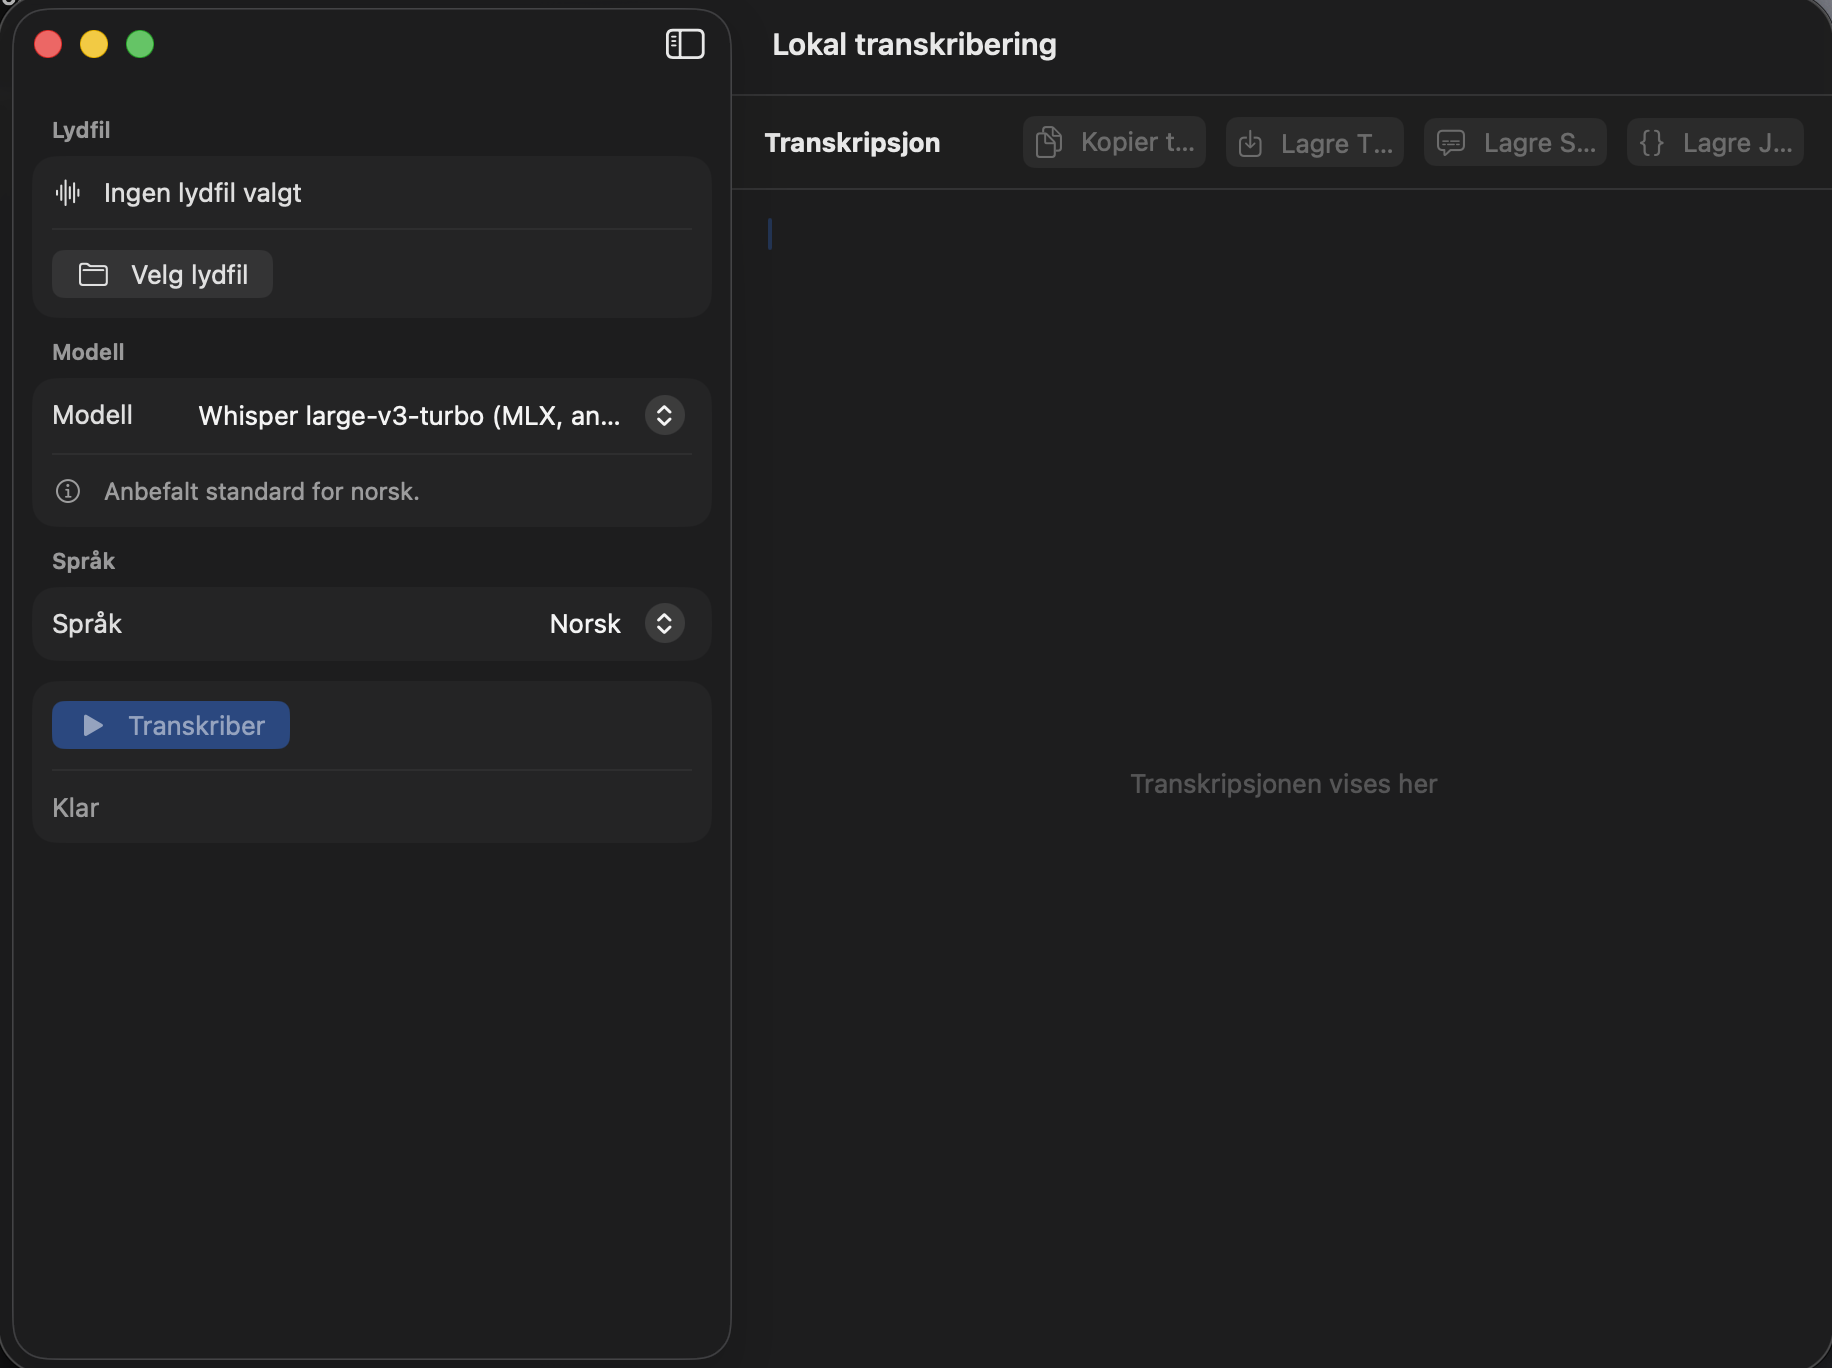
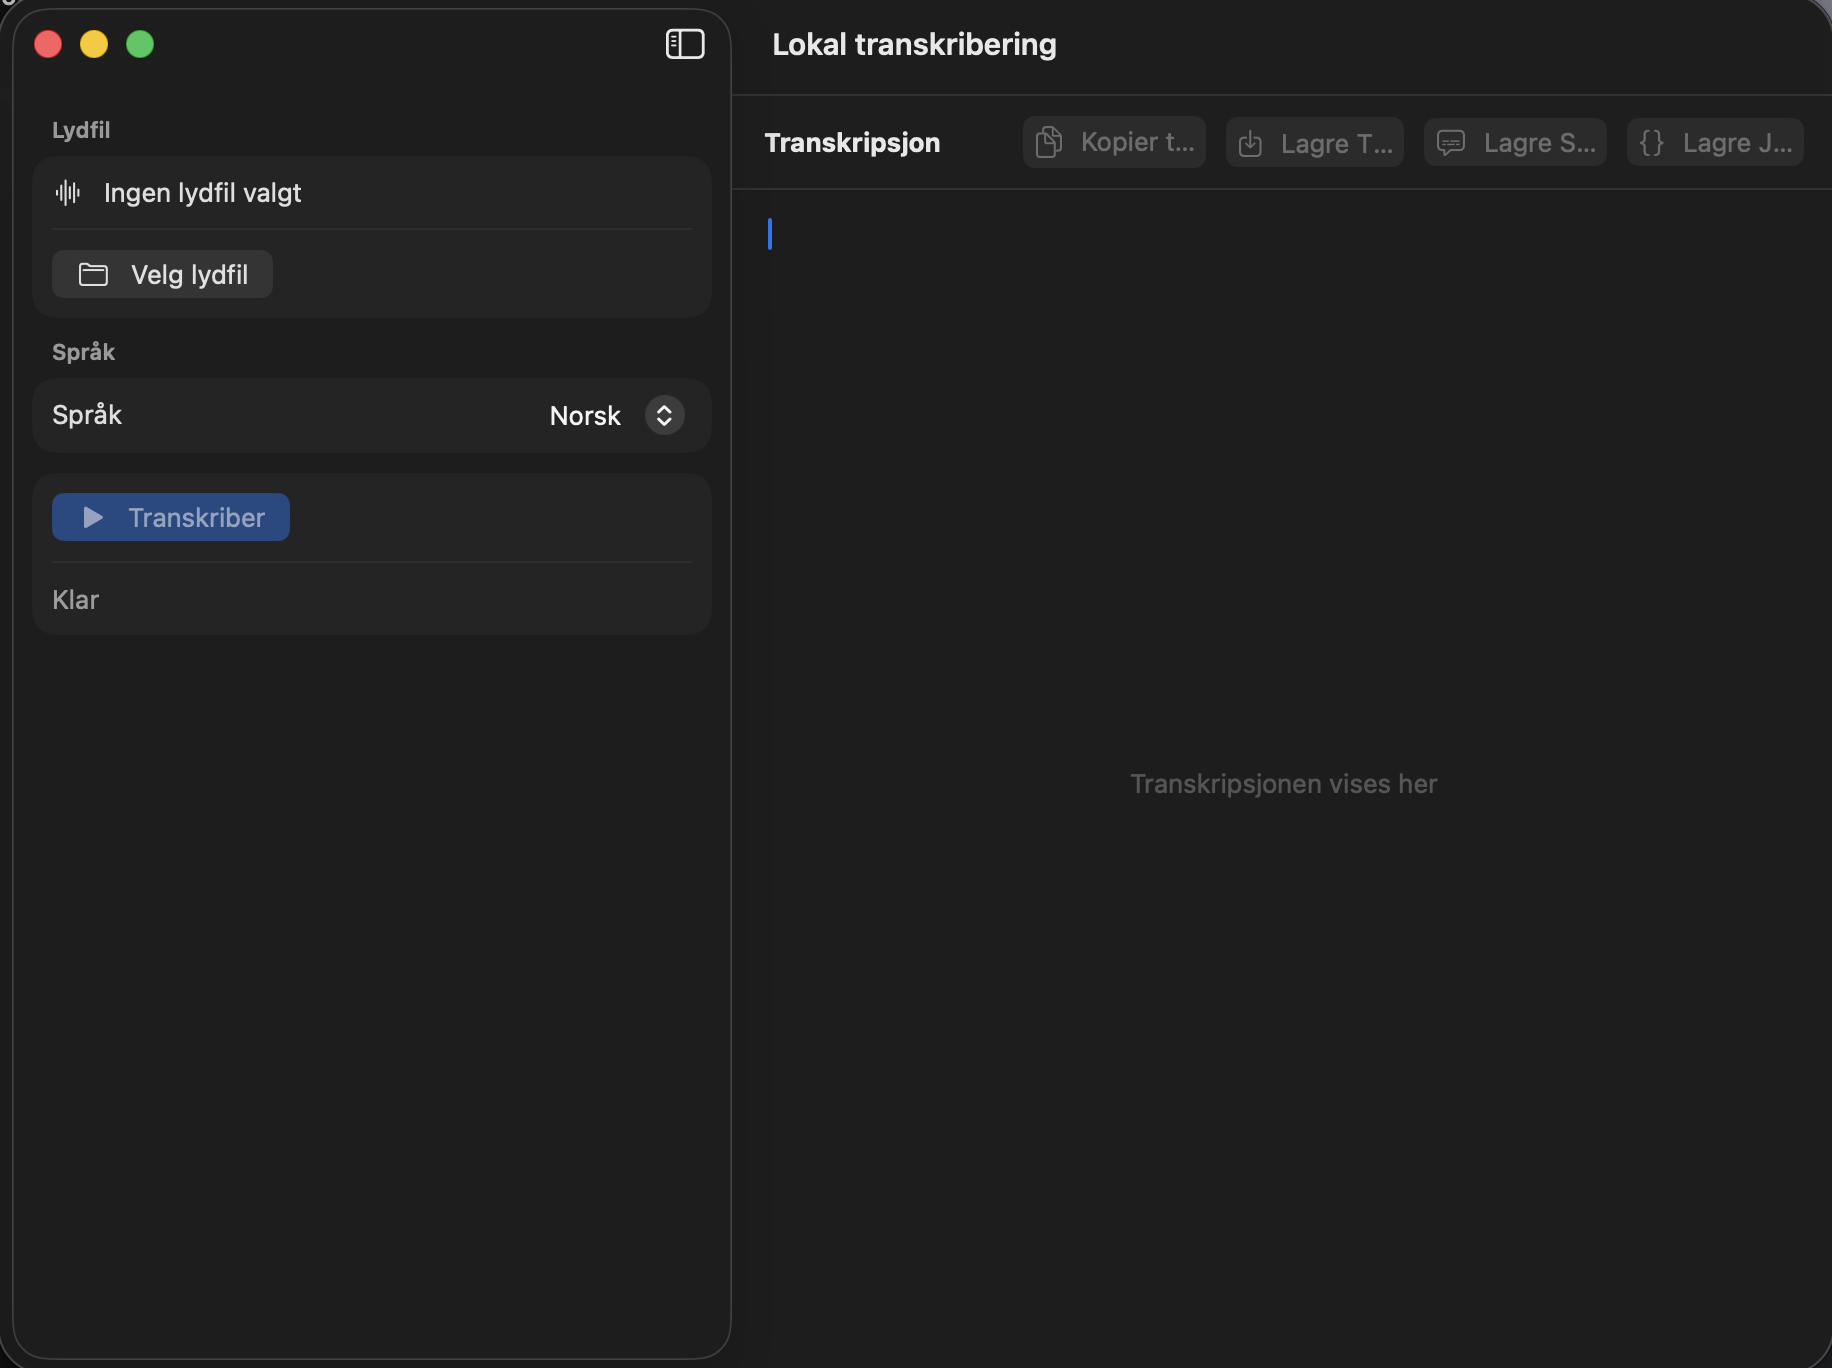
chore: simplify to mlx whisper backend

diff --git a/Sources/LocalTranscriber/Services/TranscriptionRunner.swift b/Sources/LocalTranscriber/Services/TranscriptionRunner.swift
@@ -3,14 +3,12 @@ import Foundation
 struct TranscriptionRunner: Sendable {
     func transcribe(
         audioFile: URL,
-        model: TranscriptionModel,
         language: TranscriptionLanguage,
         status: @escaping @Sendable (String) -> Void
     ) async throws -> TranscriptionResult {
         try await Task.detached(priority: .userInitiated) {
             try self.transcribeSynchronously(
                 audioFile: audioFile,
-                model: model,
                 language: language,
                 status: status
             )
@@ -37,31 +35,13 @@ struct TranscriptionRunner: Sendable {
         return arguments
     }
 
-    static func canaryArguments(audioFile: URL, language: TranscriptionLanguage) -> [String] {
-        var arguments: [String] = []
-
-        if let sourceLanguage = language.cliCode {
-            arguments.append(contentsOf: ["--source-lang", sourceLanguage])
-        }
-
-        arguments.append(audioFile.path)
-        return arguments
-    }
-
     private func transcribeSynchronously(
         audioFile: URL,
-        model: TranscriptionModel,
         language: TranscriptionLanguage,
         status: @escaping @Sendable (String) -> Void
     ) throws -> TranscriptionResult {
         try ensureAudioFileExists(audioFile)
-
-        switch model {
-        case .mlxWhisperLargeV3Turbo:
-            return try runMLXWhisper(audioFile: audioFile, language: language, status: status)
-        case .canary1BV2:
-            return try runCanary(audioFile: audioFile, language: language, status: status)
-        }
+        return try runMLXWhisper(audioFile: audioFile, language: language, status: status)
     }
 
     private func runMLXWhisper(
@@ -69,7 +49,9 @@ struct TranscriptionRunner: Sendable {
         language: TranscriptionLanguage,
         status: @escaping @Sendable (String) -> Void
     ) throws -> TranscriptionResult {
-        let outputDirectory = try createTemporaryDirectory(named: "mlx-output")
+        let outputDirectory = FileManager.default.temporaryDirectory
+            .appendingPathComponent("LocalTranscriber-mlx-output-\(UUID().uuidString)", isDirectory: true)
+        try FileManager.default.createDirectory(at: outputDirectory, withIntermediateDirectories: true)
         defer { try? FileManager.default.removeItem(at: outputDirectory) }
 
         status("Kjører MLX Whisper lokalt")
@@ -108,31 +90,6 @@ struct TranscriptionRunner: Sendable {
         return TranscriptionResult(text: text.trimmingCharacters(in: .whitespacesAndNewlines), srt: srt, json: json)
     }
 
-    private func runCanary(
-        audioFile: URL,
-        language: TranscriptionLanguage,
-        status: @escaping @Sendable (String) -> Void
-    ) throws -> TranscriptionResult {
-        status("Kjører NVIDIA Canary lokalt")
-        let arguments = Self.canaryArguments(audioFile: audioFile, language: language)
-        let execution = try runProcess(tool: "canary-transcribe", arguments: arguments)
-
-        guard execution.terminationStatus == 0 else {
-            throw TranscriptionError.processFailed(
-                tool: "canary-transcribe",
-                code: execution.terminationStatus,
-                output: displayTail(execution.combinedOutput)
-            )
-        }
-
-        let text = execution.standardOutput.trimmingCharacters(in: .whitespacesAndNewlines)
-        guard !text.isEmpty else {
-            throw TranscriptionError.missingOutput("Canary fullførte, men ga ingen transkripsjon på stdout.")
-        }
-
-        return TranscriptionResult(text: text, srt: nil, json: nil)
-    }
-
     private func ensureAudioFileExists(_ audioFile: URL) throws {
         var isDirectory: ObjCBool = false
         let exists = FileManager.default.fileExists(atPath: audioFile.path, isDirectory: &isDirectory)
@@ -151,7 +108,11 @@ struct TranscriptionRunner: Sendable {
         let process = Process()
         process.executableURL = URL(fileURLWithPath: "/usr/bin/env")
         process.arguments = [tool] + arguments
-        process.environment = processEnvironment()
+        var environment = ProcessInfo.processInfo.environment
+        environment["HF_HUB_OFFLINE"] = "1"
+        environment["TRANSFORMERS_OFFLINE"] = "1"
+        environment["HF_HUB_DISABLE_TELEMETRY"] = "1"
+        process.environment = environment
         process.standardOutput = stdout.pipe
         process.standardError = stderr.pipe
 
@@ -164,21 +125,6 @@ struct TranscriptionRunner: Sendable {
             standardOutput: stdout.string,
             standardError: stderr.string
         )
-    }
-
-    private func processEnvironment() -> [String: String] {
-        var environment = ProcessInfo.processInfo.environment
-        environment["HF_HUB_OFFLINE"] = "1"
-        environment["TRANSFORMERS_OFFLINE"] = "1"
-        environment["HF_HUB_DISABLE_TELEMETRY"] = "1"
-        return environment
-    }
-
-    private func createTemporaryDirectory(named prefix: String) throws -> URL {
-        let directory = FileManager.default.temporaryDirectory
-            .appendingPathComponent("LocalTranscriber-\(prefix)-\(UUID().uuidString)", isDirectory: true)
-        try FileManager.default.createDirectory(at: directory, withIntermediateDirectories: true)
-        return directory
     }
 
     private func displayTail(_ text: String, maxCharacters: Int = 1_200) -> String {

diff --git a/Sources/LocalTranscriber/ViewModels/TranscriptionViewModel.swift b/Sources/LocalTranscriber/ViewModels/TranscriptionViewModel.swift
@@ -6,7 +6,6 @@ import UniformTypeIdentifiers
 @MainActor
 final class TranscriptionViewModel: ObservableObject {
     @Published var audioFile: URL?
-    @Published var selectedModel: TranscriptionModel = .mlxWhisperLargeV3Turbo
     @Published var selectedLanguage: TranscriptionLanguage = .norwegian
     @Published var transcript = ""
     @Published var statusText = "Klar"
@@ -32,17 +31,6 @@ final class TranscriptionViewModel: ObservableObject {
         audioFile?.path ?? ""
     }
 
-    var modelNotice: String? {
-        switch selectedModel {
-        case .mlxWhisperLargeV3Turbo:
-            return "Anbefalt standard for norsk."
-        case .canary1BV2:
-            return selectedLanguage == .norwegian
-                ? "Ikke anbefalt for norsk"
-                : "Canary kjører lokalt, men MLX Whisper er anbefalt for norsk."
-        }
-    }
-
     var canSaveText: Bool {
         !transcript.trimmingCharacters(in: .whitespacesAndNewlines).isEmpty
     }
@@ -61,11 +49,6 @@ final class TranscriptionViewModel: ObservableObject {
         }
     }
 
-    func applyModelDefaultLanguage() {
-        selectedLanguage = selectedModel.defaultLanguage
-        errorMessage = nil
-    }
-
     func transcribe() async {
         guard let audioFile else {
             errorMessage = "Velg en lydfil først."
@@ -80,7 +63,6 @@ final class TranscriptionViewModel: ObservableObject {
         do {
             let result = try await runner.transcribe(
                 audioFile: audioFile,
-                model: selectedModel,
                 language: selectedLanguage
             ) { [weak self] message in
                 Task { @MainActor in

diff --git a/Sources/LocalTranscriber/Views/ContentView.swift b/Sources/LocalTranscriber/Views/ContentView.swift
@@ -10,9 +10,6 @@ struct ContentView: View {
         } detail: {
             transcriptPane
         }
-        .onChange(of: viewModel.selectedModel) {
-            viewModel.applyModelDefaultLanguage()
-        }
     }
 
     private var sidebar: some View {
@@ -35,20 +32,6 @@ struct ContentView: View {
                     viewModel.chooseAudioFile()
                 } label: {
                     Label("Velg lydfil", systemImage: "folder")
-                }
-            }
-
-            Section("Modell") {
-                Picker("Modell", selection: $viewModel.selectedModel) {
-                    ForEach(TranscriptionModel.allCases) { model in
-                        Text(model.displayName).tag(model)
-                    }
-                }
-
-                if let notice = viewModel.modelNotice {
-                    Label(notice, systemImage: "info.circle")
-                        .font(.callout)
-                        .foregroundStyle(Color.secondary)
                 }
             }
 

diff --git a/Tests/LocalTranscriberTests/TranscriptionTests.swift b/Tests/LocalTranscriberTests/TranscriptionTests.swift
@@ -28,15 +28,3 @@ import Testing
     #expect(TranscriptionLanguage.danish.cliCode == "da")
     #expect(TranscriptionLanguage.auto.cliCode == nil)
 }
-
-@Test func onlyRunnableModelsAreVisible() {
-    #expect(TranscriptionModel.allCases == [.mlxWhisperLargeV3Turbo, .canary1BV2])
-}
-
-@Test func canaryIsRunnableButWarnedForNorwegianUse() {
-    let arguments = TranscriptionRunner.canaryArguments(
-        audioFile: URL(fileURLWithPath: "/tmp/test.wav"),
-        language: .norwegian
-    )
-    #expect(arguments == ["--source-lang", "no", "/tmp/test.wav"])
-}

diff --git a/README.md b/README.md
@@ -1,8 +1,8 @@
 # Local Transcriber
 
-Local Transcriber is a small native macOS app for offline audio transcription. It runs local command-line transcription tools from a SwiftUI interface and does not send audio or transcript text to external APIs.
+Local Transcriber is a small native macOS app for offline audio transcription with MLX Whisper. It gives you a simple SwiftUI interface for choosing an audio or video file, running local transcription, and saving the generated transcript files.
 
-The app is currently Norwegian-first, with MLX Whisper as the recommended default for Norwegian speech.
+The app does not send audio or transcript text to external APIs. It is currently Norwegian-first and uses `mlx-community/whisper-large-v3-turbo` through `mlx_whisper`.
 
 ![Local Transcriber macOS app](docs/screenshot.png)
 
@@ -10,10 +10,10 @@ The app is currently Norwegian-first, with MLX Whisper as the recommended defaul
 
 - Native SwiftUI macOS app.
 - Pick an audio or video file from Finder.
-- Transcribe locally with `mlx_whisper` or `canary-transcribe`.
-- Save plain text output.
-- Save generated SRT and JSON output when the selected backend produces it.
-- Offline execution environment for Hugging Face tooling:
+- Transcribe locally with `mlx_whisper`.
+- Save TXT output.
+- Save generated SRT and JSON output.
+- Offline Hugging Face execution environment:
   - `HF_HUB_OFFLINE=1`
   - `TRANSFORMERS_OFFLINE=1`
   - `HF_HUB_DISABLE_TELEMETRY=1`
@@ -22,34 +22,24 @@ The app is currently Norwegian-first, with MLX Whisper as the recommended defaul
 
 - macOS 14 or newer.
 - Swift toolchain compatible with SwiftPM `swift-tools-version: 6.3`.
-- Local transcription tools available in `PATH`:
-  - `mlx_whisper`
-  - `canary-transcribe`
-- The model files needed by those tools must already be downloaded locally.
+- `mlx_whisper` available in `PATH`.
+- `mlx-community/whisper-large-v3-turbo` downloaded locally.
 
-The app intentionally does not download models at runtime. If a required local model is missing, the underlying tool will fail instead of silently using the network.
+The app intentionally does not download models at runtime. If the model is missing, `mlx_whisper` fails instead of the app silently using the network.
 
 ## Recommended Local Setup
 
-Install or verify MLX Whisper:
+Verify MLX Whisper:
 
 ```bash
 uvx --python 3.12 --from mlx-whisper mlx_whisper --help
 ```
 
-Download the recommended MLX Whisper model with your preferred Hugging Face tooling:
+Download the recommended model with your preferred Hugging Face tooling:
 
 ```bash
 uvx --from huggingface_hub hf download mlx-community/whisper-large-v3-turbo
 ```
-
-Optional Canary backend:
-
-```bash
-canary-transcribe --help
-```
-
-The Canary backend expects the `nvidia/canary-1b-v2` model to be available locally through the tool's own setup.
 
 ## Run
 
@@ -71,24 +61,15 @@ Run tests:
 swift test
 ```
 
-## Supported Models
+## Model
 
-### Whisper large-v3-turbo via MLX
+Local Transcriber currently runs one local model:
 
 - Model: `mlx-community/whisper-large-v3-turbo`
 - Tool: `mlx_whisper`
 - Recommended default for Norwegian.
 - Uses `--language no` when Norwegian is selected.
 - Runs with `--output-format all`, allowing the app to save TXT, SRT, and JSON output.
-
-### NVIDIA Canary 1B v2
-
-- Model: `nvidia/canary-1b-v2`
-- Tool: `canary-transcribe`
-- Runs locally.
-- Included as an alternative backend.
-- Marked in the app as not recommended for Norwegian.
-- Current app integration saves text from stdout as TXT.
 
 ## Architecture
 
@@ -97,11 +78,11 @@ This is a simple Swift Package Manager macOS app:
 - `Sources/LocalTranscriber/App` contains the app entry point.
 - `Sources/LocalTranscriber/Views` contains the SwiftUI UI.
 - `Sources/LocalTranscriber/ViewModels` coordinates UI state and save/copy actions.
-- `Sources/LocalTranscriber/Services` runs local transcription processes.
-- `Sources/LocalTranscriber/TranscriptionTypes.swift` defines models, languages, and result types.
-- `Tests/LocalTranscriberTests` covers argument construction and model/language behavior.
+- `Sources/LocalTranscriber/Services` runs the local transcription process.
+- `Sources/LocalTranscriber/TranscriptionTypes.swift` defines languages and result types.
+- `Tests/LocalTranscriberTests` covers argument construction and language behavior.
 
-The app uses `Process` to launch local command-line tools. Each MLX Whisper run writes into a temporary output directory; the app reads the generated files back into memory and removes the temporary directory afterward.
+The app uses `Process` to launch `mlx_whisper`. Each transcription run writes into a temporary output directory; the app reads the generated files back into memory and removes the temporary directory afterward.
 
 ## Privacy
 
@@ -113,7 +94,7 @@ Local Transcriber is designed for local-first transcription:
 - No transcript upload.
 - No automatic model downloads from the app process.
 
-You are still responsible for how the external tools installed on your machine are configured. The app sets offline environment variables for the child processes it starts.
+You are still responsible for how the external tools installed on your machine are configured. The app sets offline environment variables for the child process it starts.
 
 ## Current Limitations
 
@@ -121,7 +102,7 @@ You are still responsible for how the external tools installed on your machine a
 - No automatic dependency installation.
 - No transcript history or project library.
 - UI copy is currently Norwegian.
-- Canary output support is text-only in the app.
+- MLX Whisper is the only backend wired into the app.
 
 ## Contributing
 